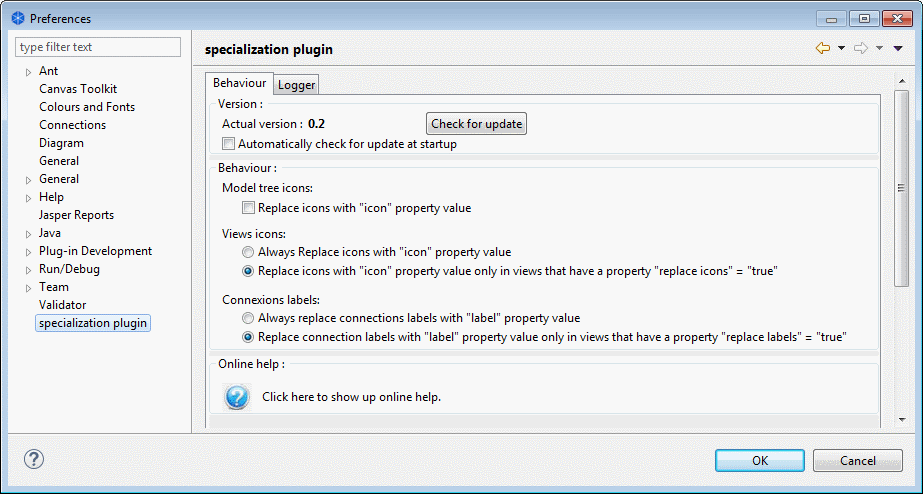
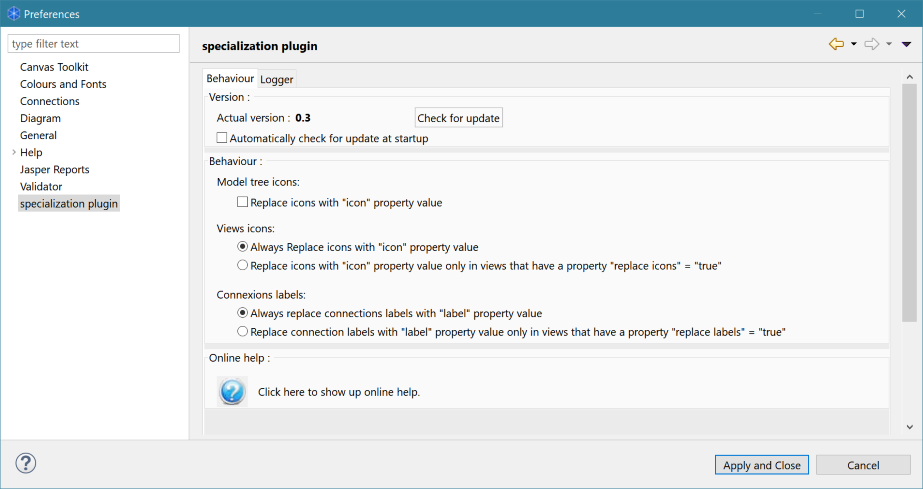
update help files

Changed region(s): [[0.0, 0.0, 1.0, 1.0], [0.2124, 0.4601, 0.9101, 0.8282]]

diff --git a/sources/help/html/pluginObjectives.html b/sources/help/html/pluginObjectives.html
@@ -30,17 +30,22 @@
 	   <li>Customize the elements icons</li>
 	</ul>
 	Icons are image files (png, jpg, gif, ...) in Archi's editor folder. this folder is "/plugins/com.archimatetool.editor_4.x.x.xxxxxxxxxxxx/img" under Archi's installation folder (where 'x' is dependent on archi's version)."<br>
-	Please pay attention to <b><u>not</u></b> modify Archi's images. I recommand you create your own subfolders before copying your image files.<br>  
+	Please pay attention to <b><u>not</u></b> modify Archi's images. <font color="blue">I highly recommand you create your own subfolders before copying your image files.</font><br>  
 	<br>
-	When this is done, you may create a "icon" property to your elements, the value being the path of your image file, relative to Archi's editor folder.<br>
+	When this is done, you may create a property to your elements that will specify the path of your image file, relative to Archi's editor folder.<br>
 	For instance, specifying "/os/windows.png" will refer to the image file "Archi's installation path/plugins/com.archimatetool.editor_4.x.x.xxxxxxxxxxxx/img/os/windows.png"<br>
 	<br>
+	By default, this property is named "icon" but your can change it, view by view, by creating a property called "replace icons property".<br>
+	For instance, specifying "image" in the view's property "replace icons property" will tell the plugin to use the "image" property on elements to customize their icon.<br>
 	<br>
 	<ul>
 	   <li>Customize the elements and relationships labels</li>
 	</ul>
-	You may create a "label" property to your elements or relationships, the value being label you wish to show in the views.<br>
-	Setting or changing a label this way does not automatically update the view. To see your changes, you may right click on the view background and select "refresh view" in the contect menu that shows up.    
+	You may create a property to your elements or relationships, the value being label you wish to show in the views.<br>
+	Setting or changing a label this way does not automatically update the view. To see your changes, you may right click on the view background and select "refresh view" in the contect menu that shows up.<br>
+	<br>
+	By default, this property is named "label" but your can change it, view by view, by creating a property called "replace labels property".<br>
+	For instance, specifying "text" in the view's property "replace labels property" will tell the plugin to use the "text" property on elements and relationships to customize their label.<br>    
 </div>
 </body>
 </html>

diff --git a/sources/help/html/releaseNotes.html b/sources/help/html/releaseNotes.html
@@ -36,8 +36,8 @@
     <ul>
         <li>Add the ability to change the name of the property that contains the icon filename</li>
         <li>Add the ability to change the name of the property that contains the label text</li>
-        <li>Do not replace the icon in the properties window anymore</li>
-        <li>Add a context menu to refresh the model tree</li>
+        <li>Add debug and trace messages</li>
+        <li>Add a context menu to refresh the icon of all the elements of the model</li>
     </ul></li>
 </ul>
 
